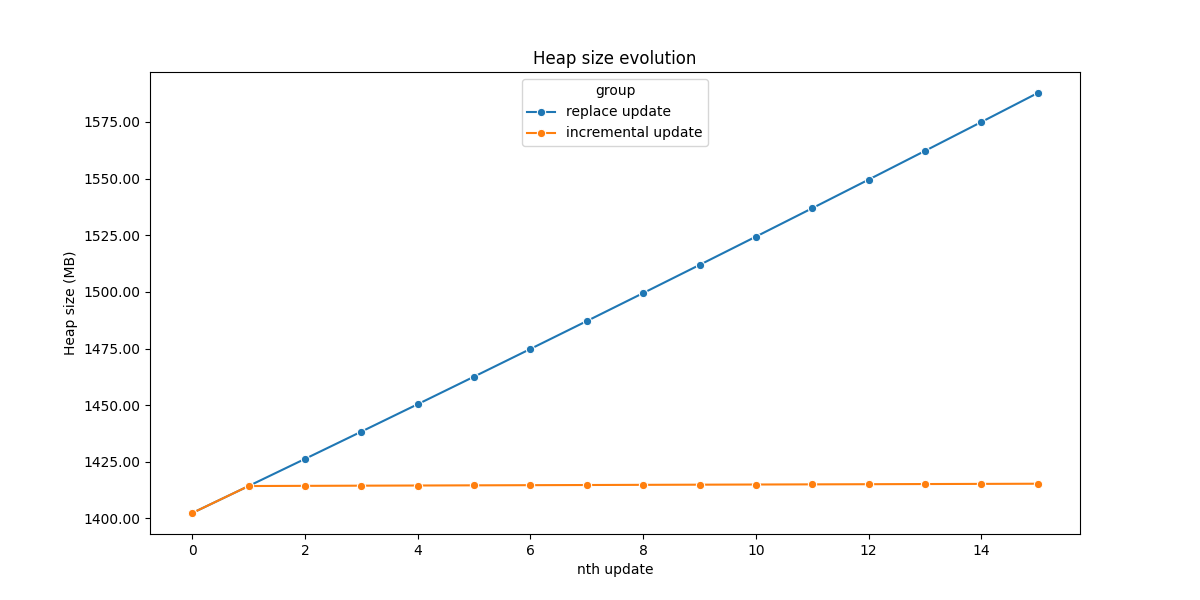
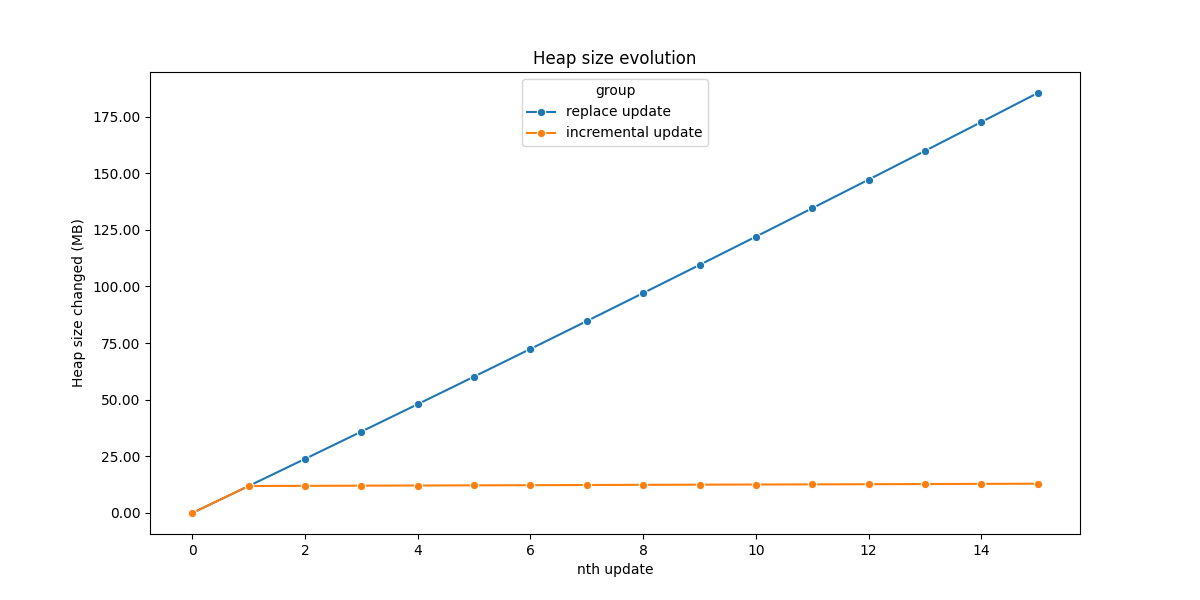
Update chart differential & replace update

diff --git a/postgres/cdc/visualize_result.py b/postgres/cdc/visualize_result.py
@@ -4,12 +4,6 @@ import pandas as pd
 import matplotlib.pyplot as plt
 from matplotlib.ticker import FuncFormatter
 
-# exec time: line chart
-
-# heap size change: area chart accumulated
-# index size change: area chart accumulated
-# n_dead_tuple: area chart accumulated
-
 
 # Function to format y-axis ticks without scientific notation
 def format_y_ticks(value, pos):
@@ -24,62 +18,74 @@ def draw_chart(
         f"result/{scenario}/result_update_data_incremental.csv"
     )
 
-    df_replace["accumulated_heap"] = df_replace["heap_size_changed"].cumsum()
-    df_replace["accumulated_index"] = df_replace["index_size_changed"].cumsum()
-    df_incremental["accumulated_heap"] = df_incremental["heap_size_changed"].cumsum()
-    df_incremental["accumulated_index"] = df_incremental["index_size_changed"].cumsum()
-
-    df_replace["accumulated_index"] = df_replace["accumulated_index"] / (1024 * 1024)
-    df_replace["accumulated_heap"] = df_replace["accumulated_heap"] / (1024 * 1024)
-    df_incremental["accumulated_index"] = df_incremental["accumulated_index"] / (
+    df_replace["index_size_changed"] = (
+        df_replace["index_size"] - df_replace.at[0, "index_size"]
+    )
+    df_replace["heap_size_changed"] = (
+        df_replace["heap_size"] - df_replace.at[0, "heap_size"]
+    )
+    df_incremental["index_size_changed"] = (
+        df_incremental["index_size"] - df_incremental.at[0, "index_size"]
+    )
+    df_incremental["heap_size_changed"] = (
+        df_incremental["heap_size"] - df_incremental.at[0, "heap_size"]
+    )
+    df_replace["index_size_changed"] = df_replace["index_size_changed"] / (1024 * 1024)
+    df_replace["heap_size_changed"] = df_replace["heap_size_changed"] / (1024 * 1024)
+    df_incremental["index_size_changed"] = df_incremental["index_size_changed"] / (
         1024 * 1024
     )
-    df_incremental["accumulated_heap"] = df_incremental["accumulated_heap"] / (
+    df_incremental["heap_size_changed"] = df_incremental["heap_size_changed"] / (
         1024 * 1024
     )
-
-    df_replace["accumulated_dead_tuples"] = df_replace["n_dead_tuples_changed"].cumsum()
-    df_incremental["accumulated_dead_tuples"] = df_incremental[
-        "n_dead_tuples_changed"
-    ].cumsum()
 
     df_replace["group"] = "replace update"
     df_incremental["group"] = "incremental update"
     combined_df = pd.concat([df_replace, df_incremental])
 
     combined_df.rename(columns={"Unnamed: 0": "nth_update"}, inplace=True)
-    combined_df["nth_update"] = combined_df["nth_update"] + 1
     print(combined_df)
     plt.figure(figsize=(12, 6))
+
+    exec_df = combined_df.dropna(subset=["exec_time"])
     exec_chart = sns.lineplot(
-        data=combined_df, x="nth_update", y="exec_time", hue="group", marker="o"
+        data=exec_df,
+        x="nth_update",
+        y="exec_time",
+        hue="group",
+        marker="o",
     )
 
     plt.xlabel("nth update")
     plt.ylabel("Execution Time (s)")
     plt.title("Execution Time")
+    plt.ylim(0, None)
     sns.move_legend(exec_chart, "upper center")
     plt.savefig(f"result/{scenario}/exec_time.png")
     plt.clf()
 
     heap_size_chart = sns.lineplot(
-        data=combined_df, x="nth_update", y="accumulated_heap", hue="group", marker="o"
+        data=combined_df, x="nth_update", y="heap_size_changed", hue="group", marker="o"
     )
     plt.xlabel("nth update")
     plt.ylabel("Heap size changed (MB)")
     plt.gca().get_yaxis().set_major_formatter(FuncFormatter(format_y_ticks))
-    plt.title("Heap size change")
+    plt.title("Heap size evolution")
     sns.move_legend(heap_size_chart, "upper center")
     plt.savefig(f"result/{scenario}/heap_size.png")
     plt.clf()
 
     index_size_chart = sns.lineplot(
-        data=combined_df, x="nth_update", y="accumulated_index", hue="group", marker="o"
+        data=combined_df,
+        x="nth_update",
+        y="index_size_changed",
+        hue="group",
+        marker="o",
     )
     plt.xlabel("nth update")
     plt.ylabel("Index size changed (MB)")
     plt.gca().get_yaxis().set_major_formatter(FuncFormatter(format_y_ticks))
-    plt.title("Index size change")
+    plt.title("Index size evolution")
     sns.move_legend(index_size_chart, "upper center")
     plt.savefig(f"result/{scenario}/index_size.png")
     plt.clf()
@@ -87,7 +93,7 @@ def draw_chart(
     dead_rows_chart = sns.lineplot(
         data=combined_df,
         x="nth_update",
-        y="accumulated_dead_tuples",
+        y="n_dead_tuples",
         hue="group",
         marker="o",
     )

diff --git a/postgres/cdc/benchmark_update.py b/postgres/cdc/benchmark_update.py
@@ -144,27 +144,23 @@ def test_update_data(
             load_data_to_tmp_table(engine, tmp_table, files[i])
 
             before = capture_stats(connection, test_table, "before")
+            if i == 0:
+                stats.append(
+                    {
+                        "heap_size": before["heap_size"],
+                        "index_size": before["index_size"],
+                        "n_dead_tuples": before["n_dead_tuples"],
+                    }
+                )
             func(connection, test_table, tmp_table)
             after = capture_stats(connection, test_table, "after")
 
             stats.append(
                 {
-                    "run_at": before["current_time"],
                     "exec_time": after["current_time"] - before["current_time"],
-                    "heap_size_changed": after["heap_size"] - before["heap_size"],
-                    "index_size_changed": after["index_size"] - before["index_size"],
-                    "n_live_tuples_changed": after["n_live_tuples"]
-                    - before["n_live_tuples"],
-                    "n_dead_tuples_changed": after["n_dead_tuples"]
-                    - before["n_dead_tuples"],
-                    "n_tuples_inserted": after["n_tuples_inserted"]
-                    - before["n_tuples_inserted"],
-                    "n_tuples_updated": after["n_tuples_updated"]
-                    - before["n_tuples_updated"],
-                    "n_tuples_hot_updated": after["n_tuples_hot_updated"]
-                    - before["n_tuples_hot_updated"],
-                    "n_tuples_deleted": after["n_tuples_deleted"]
-                    - before["n_tuples_deleted"],
+                    "heap_size": after["heap_size"],
+                    "index_size": after["index_size"],
+                    "n_dead_tuples": after["n_dead_tuples"],
                 }
             )
 
